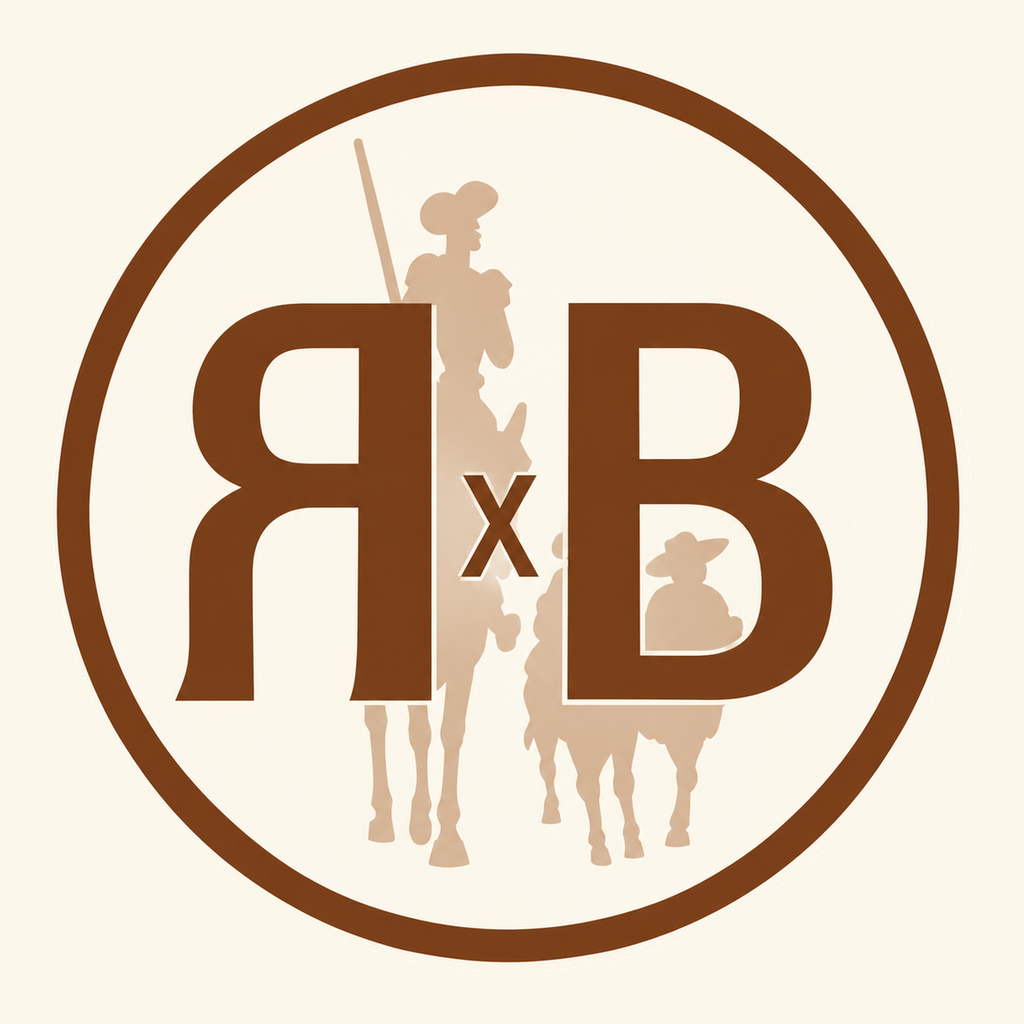
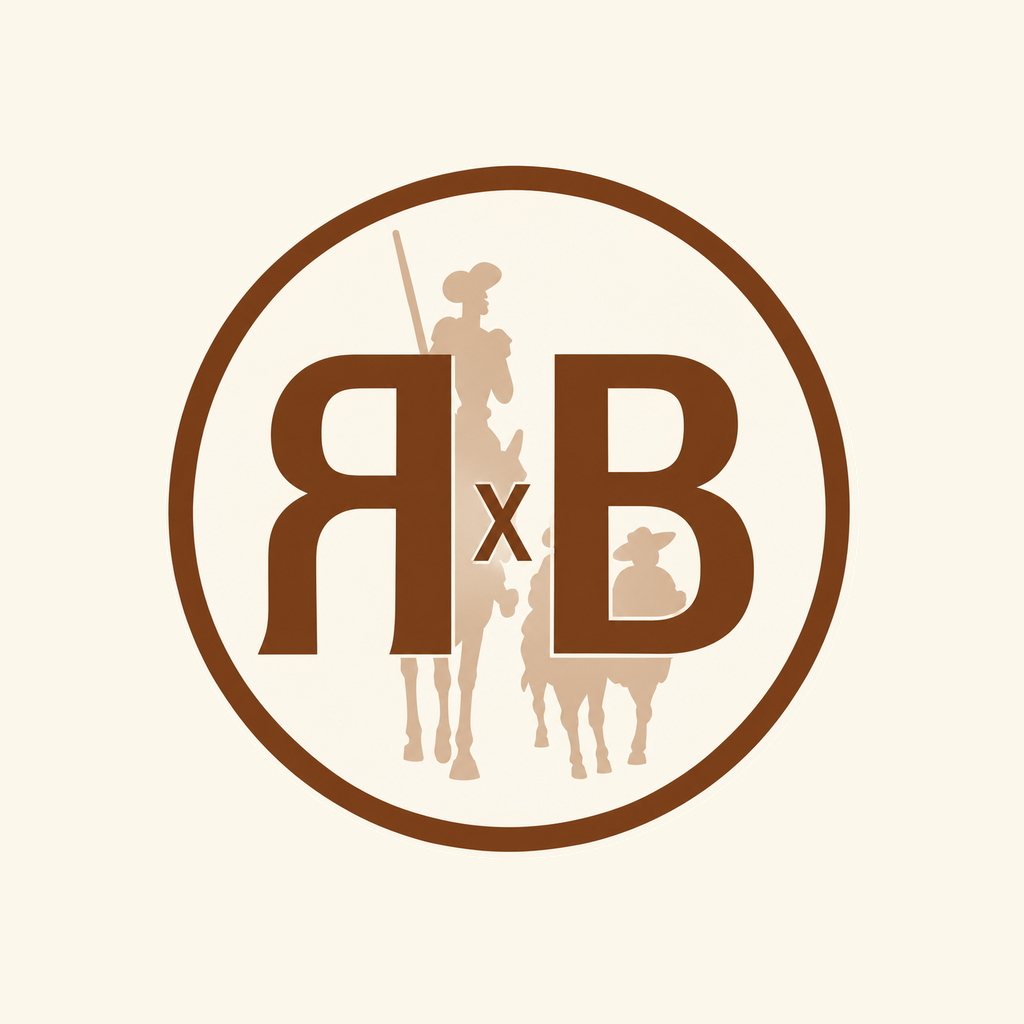
Icono cortado contra el marco: el aro vuelve al margen del icono viejo
La primera version de generar-iconos.py ponia el aro al 90% del icono
cuadrado (icon.png, favicon, icon-192/512, apple-touch, maskable). Se vio en
el movil (foto real, PR): la circunferencia quedaba cortada contra el marco
redondeado, sin margen.

Medido el icono VIEJO (icono-web.png, icon-192, apple-touch-icon, icon-512
de antes de esta rama): los cuatro daban 0.67-0.68 de proporcion, no 0.9.
Nueva constante PROPORCION_ICONO = 0.68, igual para los seis (tambien
maskable, que antes iba a su propia formula de 0.78 - mas conservador ahora,
sigue sobrando margen frente al 80% que exige su safe zone).

tests/iconos.test.ts: nuevo chequeo por icono (aro entre 0.5 y 0.75 del
ancho). Comprobado que un 0.9 hace fallar los seis; revertido a 0.68 vuelve a
pasar.

Changed region(s): [[0.0312, 0.0312, 0.9375, 0.9375]]

diff --git a/tests/iconos.test.ts b/tests/iconos.test.ts
@@ -106,6 +106,25 @@ const TRANSPARENTES: Record<string, number> = {
   'assets/logo-barra.png': 144,
 };
 
+/**
+ * Cuanto del ancho ocupa el aro en la fila central (de canto a canto, no solo
+ * la esquina): mide lo mismo que "se ve cortado contra el marco" o "se ve
+ * como un sello perdido en el centro". Un pixel es "del aro" con el mismo
+ * umbral que generar-iconos.py (OSCURO = 400): las siluetas color arena
+ * quedan fuera, el marron del aro y el crema puro tambien (por debajo del
+ * corte, es fondo).
+ */
+function anchoDelAro(png: Png): number {
+  const fila = png.alto >> 1;
+  const oscuros: number[] = [];
+  for (let x = 0; x < png.ancho; x++) {
+    const [r, g, b] = png.pixel(x, fila);
+    if (r + g + b < 400) oscuros.push(x);
+  }
+  assert.ok(oscuros.length > 0, 'ninguna fila central tiene pixeles del aro');
+  return (oscuros[oscuros.length - 1] - oscuros[0]) / png.ancho;
+}
+
 describe('iconos: tamano y fondo', () => {
   for (const [rel, lado] of Object.entries(CUADRADOS)) {
     it(`${rel}: ${lado}x${lado}, esquinas del crema del logo (no blancas)`, () => {
@@ -114,6 +133,20 @@ describe('iconos: tamano y fondo', () => {
       for (const p of esquinas(png)) assert.deepEqual(p.slice(0, 3), CREMA);
       if (png.canales === 4) for (const p of esquinas(png)) assert.equal(p[3], 255);
     });
+
+    // android-icon-background.png no lleva aro: es solo el relleno crema que
+    // se ve alrededor del foreground (otro fichero, otro test).
+    if (rel !== 'assets/android-icon-background.png') {
+      it(`${rel}: el aro deja margen, ni cortado contra el marco ni perdido en el centro`, () => {
+        // Medido contra el icono viejo (icono-web.png, icon-192, apple-touch,
+        // icon-512): los cuatro daban 0.67-0.68. La primera version de este
+        // script lo puso a 0.9 y se veia cortado en el movil (foto real, PR).
+        // Banda ancha (0.5-0.75) para no reventar por el antialiasing de cada
+        // tamano, pero que un 0.9 o un 0.3 SI hagan saltar el test.
+        const ratio = anchoDelAro(leerPng(rel));
+        assert.ok(ratio > 0.5 && ratio < 0.75, `${rel}: aro al ${ratio.toFixed(2)} del ancho, fuera de 0.5-0.75`);
+      });
+    }
   }
 
   for (const [rel, lado] of Object.entries(TRANSPARENTES)) {

diff --git a/scripts/generar-iconos.py b/scripts/generar-iconos.py
@@ -28,6 +28,13 @@ MARCA = RAIZ / 'assets' / 'marca'
 # Crema del fondo de logo-10, muestreado dentro del aro. Si cambia el logo,
 # cambiarlo tambien en app.config.ts (android.adaptiveIcon.backgroundColor).
 CREMA = (251, 247, 235)
+# Cuanto ocupa el aro en un icono cuadrado normal (icon.png, favicon, PWA,
+# maskable): la primera version lo puso al 0.9 y quedaba cortado contra el
+# marco redondeado del icono (se vio en el movil, comparado con el icono
+# viejo). 0.68 es la proporcion MEDIDA del icono viejo (icono-web.png,
+# icon-192, apple-touch-icon, icon-512: los cuatro daban 0.67-0.68), no un
+# numero inventado.
+PROPORCION_ICONO = 0.68
 # Un pixel es "del aro" si es bastante oscuro. Las siluetas color arena
 # (suma ~545) quedan fuera; el marron del aro suma ~210.
 OSCURO = 400
@@ -120,7 +127,7 @@ def main() -> None:
     quijote = circulo('logo-10.png', 1024)
 
     # Nativo. iOS y Android redondean el cuadrado ellos: fondo liso hasta el borde.
-    guardar(sobre_fondo(quijote, 1024, 0.9, CREMA), 'assets/icon.png', rgb=True)
+    guardar(sobre_fondo(quijote, 1024, PROPORCION_ICONO, CREMA), 'assets/icon.png', rgb=True)
     # Adaptativo de Android: el sistema recorta a su forma y solo garantiza el
     # circulo central de 66/108 dp (61 %). 0.6 deja el aro entero dentro.
     guardar(sobre_fondo(quijote, 1024, 0.6, None), 'assets/android-icon-foreground.png')
@@ -128,12 +135,14 @@ def main() -> None:
     guardar(sobre_fondo(monocromo(quijote), 1024, 0.6, None), 'assets/android-icon-monochrome.png')
 
     # Web / PWA.
-    guardar(sobre_fondo(quijote, 48, 0.96, CREMA), 'assets/favicon.png', rgb=True)
-    guardar(sobre_fondo(quijote, 192, 0.9, CREMA), 'public/icons/icon-192.png', rgb=True)
-    guardar(sobre_fondo(quijote, 512, 0.9, CREMA), 'public/icons/icon-512.png', rgb=True)
-    guardar(sobre_fondo(quijote, 180, 0.9, CREMA), 'public/icons/apple-touch-icon.png', rgb=True)
-    # maskable: la zona segura es un circulo del 80 % del lado.
-    guardar(sobre_fondo(quijote, 512, 0.78, CREMA), 'public/icons/maskable-512.png', rgb=True)
+    guardar(sobre_fondo(quijote, 48, PROPORCION_ICONO, CREMA), 'assets/favicon.png', rgb=True)
+    guardar(sobre_fondo(quijote, 192, PROPORCION_ICONO, CREMA), 'public/icons/icon-192.png', rgb=True)
+    guardar(sobre_fondo(quijote, 512, PROPORCION_ICONO, CREMA), 'public/icons/icon-512.png', rgb=True)
+    guardar(sobre_fondo(quijote, 180, PROPORCION_ICONO, CREMA), 'public/icons/apple-touch-icon.png', rgb=True)
+    # maskable: la zona segura del spec es un circulo del 80 % del lado, pero
+    # se pinta a la misma PROPORCION_ICONO (bastante mas conservador) para que
+    # se vea igual que el resto y no distinto solo por venir de otra formula.
+    guardar(sobre_fondo(quijote, 512, PROPORCION_ICONO, CREMA), 'public/icons/maskable-512.png', rgb=True)
 
     # Dentro de la app: circulos con fondo transparente para pintarlos sobre
     # cualquier color. 3x del mayor tamano en pantalla (92 px el login).
